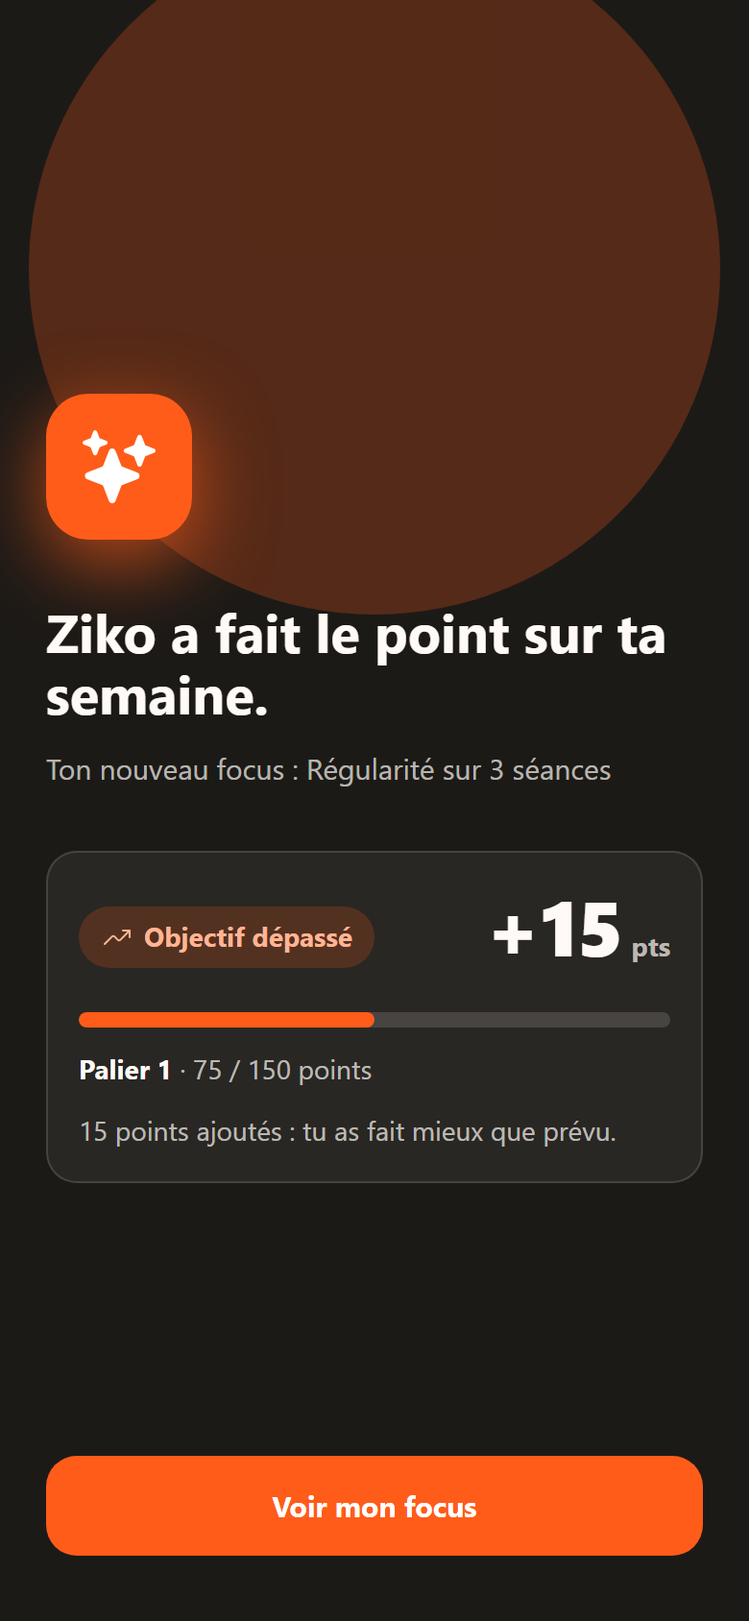
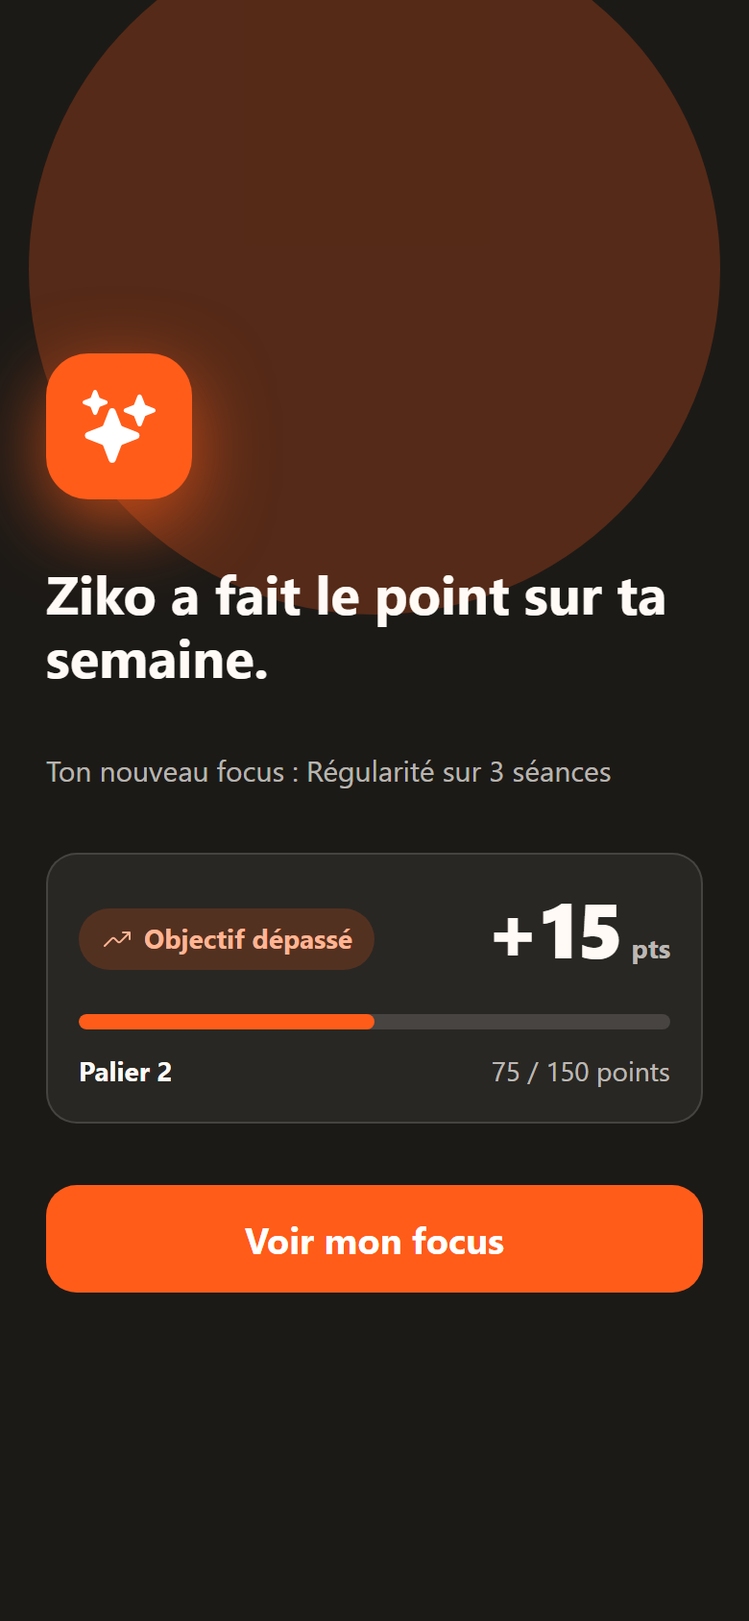
design(45): rebuild overlay states on the real Phase 44 structure, coherent numbers, 19px CTA
Claude-Session: https://claude.ai/code/session_01KbknvqKzQ5JteSPxw9Q9RB

diff --git a/.planning/workstreams/milestone-mobile/phases/45-non-punitive-tiered-rewards/design/tokens.css b/.planning/workstreams/milestone-mobile/phases/45-non-punitive-tiered-rewards/design/tokens.css
@@ -18,15 +18,17 @@ button{font-family:inherit;border:0;background:none;color:inherit}
 .ov{background:var(--dk-bg);color:var(--dk-text)}
 .ov .glow{position:absolute;top:-40px;left:50%;margin-left:-180px;width:360px;height:360px;border-radius:180px;background:var(--dk-glow)}
 .ov .safe{position:absolute;inset:0;padding:47px 24px 34px;display:flex;flex-direction:column}
-.ov .steps{display:flex;gap:8px;justify-content:center;height:8px;margin-top:8px}
+.ov .col{flex:1;display:flex;flex-direction:column;justify-content:center;gap:32px}
+.ov .steps{position:absolute;top:55px;left:0;right:0;display:flex;gap:8px;justify-content:center;height:8px}
 .ov .steps i{width:8px;height:8px;border-radius:4px;background:var(--dk-line)}
 .ov .steps i.on{width:24px;background:var(--primary)}
-.ov .stack{flex:1;display:flex;flex-direction:column;justify-content:center;gap:32px}
 .badge{width:76px;height:76px;border-radius:22px;background:var(--primary);display:flex;align-items:center;justify-content:center;font-size:38px;color:#fff;box-shadow:0 12px 40px rgba(255,92,26,.70)}
-.h-display{font-size:28px;line-height:32px;font-weight:700;color:var(--dk-text)}
+.h-display{font-size:28px;line-height:33px;font-weight:700;color:var(--dk-text)}
 .body{font-size:15px;line-height:22px;font-weight:400;color:var(--dk-sub)}
-.cta{width:100%;min-height:52px;padding:16px 0;border-radius:16px;background:var(--primary);color:#fff;font-size:15px;line-height:20px;font-weight:700;text-align:center}
+.cta{width:100%;min-height:56px;padding:16px 0;border-radius:16px;background:var(--primary);color:#fff;font-size:19px;line-height:24px;font-weight:700;text-align:center}
 .pts{border-radius:16px;background:var(--dk-card);border:1px solid var(--dk-line);padding:16px;display:flex;flex-direction:column;gap:12px}
+.pts .meta{display:flex;justify-content:space-between;align-items:baseline}
+.pts .meta strong{color:var(--dk-text);font-weight:700}
 .chip{display:inline-flex;align-items:center;gap:6px;height:32px;padding:0 12px;border-radius:16px;font-size:14px;line-height:18px;font-weight:700}
 .chip .ic{font-size:16px}
 .chip.ok{background:var(--ok-bg);color:var(--ok-ink)}.chip.up{background:var(--up-bg);color:var(--up-ink)}.chip.calm{background:var(--neutral-bg);color:var(--dk-text)}
@@ -44,39 +46,40 @@ button{font-family:inherit;border:0;background:none;color:inherit}
 .tiers .l{flex:1;height:2px;background:var(--dk-line);margin:0 4px}.tiers .l.done{background:var(--primary)}
 .eyebrow{font-size:14px;line-height:18px;font-weight:700;color:var(--up-ink)}
 .rw{border-radius:16px;background:var(--dk-card);border:1px solid var(--dk-line);padding:24px 16px;display:flex;flex-direction:column;align-items:center;gap:12px;text-align:center}
-.rw .tile{width:76px;height:76px;border-radius:22px;background:var(--up-bg);border:1px solid rgba(255,92,26,.35);display:flex;align-items:center;justify-content:center;font-size:38px;color:var(--up-ink)}
 .rw .name{font-size:28px;line-height:32px;font-weight:700}
 .rw .kind{font-size:14px;line-height:18px;font-weight:700;color:var(--dk-sub)}
 .home .hd{height:96px;padding:56px 20px 0;font-size:28px;line-height:32px;font-weight:700}
-.home .card{margin:12px 16px 0;height:112px;border-radius:16px;background:var(--surface);border:1px solid var(--border);box-shadow:var(--shadow-card)}
-.tabbar{position:absolute;left:0;right:0;bottom:0;height:84px;background:var(--surface);border-top:1px solid var(--border);display:flex;justify-content:space-around;padding-top:10px}
+.home .card{position:relative;margin:12px 16px 0;height:112px;border-radius:16px;background:var(--surface);border:1px solid var(--border);box-shadow:var(--shadow-card)}
+.home .card::before{content:"";position:absolute;left:16px;top:20px;width:38%;height:12px;border-radius:6px;background:var(--bg)}
+.home .card::after{content:"";position:absolute;left:16px;top:44px;width:64%;height:10px;border-radius:5px;background:var(--bg)}
+.tabbar{position:absolute;left:0;right:0;bottom:0;height:104px;background:var(--surface);display:flex;justify-content:space-around;padding-top:10px}
 .tabbar span{width:44px;height:44px;border-radius:22px;background:var(--bg);display:flex;align-items:center;justify-content:center;font-size:22px;color:var(--muted)}
 .scrim{position:absolute;inset:0;background:rgba(0,0,0,.45)}
 .sheet{position:absolute;left:0;right:0;bottom:0;height:633px;background:var(--surface);border-radius:24px 24px 0 0;padding:20px 20px 36px;display:flex;flex-direction:column}
 .sheet .handle{width:36px;height:4px;border-radius:2px;background:var(--border);margin:0 auto 12px}
 .sheet h1{font-size:18px;line-height:24px;font-weight:800}
 .sheet .scroll{overflow-y:auto;overflow-x:hidden;flex:1;scrollbar-width:none}
-.grid{display:flex;flex-wrap:wrap;gap:16px 0;padding-top:16px}
-.cell{width:20%;display:flex;flex-direction:column;align-items:center;gap:6px;min-height:44px;cursor:pointer}
+.grid{display:flex;flex-wrap:wrap;gap:16px;padding-top:16px}
+.cell{flex:none;width:20%;display:flex;flex-direction:column;align-items:center;gap:6px;min-height:44px;cursor:pointer}
 .tile{position:relative;width:56px;height:56px;border-radius:16px;border:1px solid var(--border);display:flex;align-items:center;justify-content:center;font-size:24px}
 .cell .nm{font-size:10px;line-height:13px;font-weight:600;color:var(--muted);text-align:center;max-height:26px;overflow:hidden}
 .cell.locked .tile{background:var(--locked-bg);color:var(--locked-icon)}
 .lockdot{position:absolute;right:-5px;top:-5px;width:22px;height:22px;border-radius:11px;background:var(--surface);border:1px solid var(--border);display:flex;align-items:center;justify-content:center;font-size:12px;color:var(--muted)}
-.lvl{display:inline-flex;align-items:center;height:20px;padding:0 8px;border-radius:10px;font-size:11px;line-height:14px;font-weight:700;background:var(--locked-bg);color:var(--muted)}
+.lvl{display:inline-flex;align-items:center;height:24px;padding:0 8px;border-radius:12px;font-size:14px;line-height:18px;font-weight:700;background:var(--locked-bg);color:var(--muted)}
 .lvl.next{background:var(--primary-light);color:var(--primary-ink);border:1px solid var(--primary-border)}
 .sec{margin-top:24px;padding-top:16px;border-top:1px solid var(--border)}
 .sec .t{display:flex;align-items:center;gap:8px;font-size:14px;line-height:20px;font-weight:700}
 .sec .t .ic{font-size:16px;color:var(--muted)}.sec .t .cur{margin-left:auto;color:var(--primary-ink)}
 .sec p{font-size:14px;line-height:20px;color:var(--muted);margin-top:4px}
-.done-row{margin-top:24px;padding:16px;border-radius:16px;background:var(--bg);border:1px solid var(--border);display:flex;gap:12px;align-items:center;font-size:14px;line-height:20px;color:var(--muted)}
-.done-row .ic{font-size:24px;color:#2E9E5B}.done-row strong{display:block;color:var(--text);font-size:15px}
-.toast{position:absolute;left:16px;right:16px;bottom:80px;display:flex;justify-content:center}
-.toast .in{max-width:358px;background:var(--surface);border:1px solid var(--border);border-radius:24px;padding:12px 20px;display:flex;align-items:center;gap:12px;box-shadow:0 4px 12px rgba(0,0,0,.10)}
-.toast .ci{width:32px;height:32px;border-radius:16px;background:var(--primary-light);color:var(--primary);display:flex;align-items:center;justify-content:center;font-size:18px;flex:none}
+.done-row{margin-top:16px;display:flex;gap:8px;align-items:center;font-size:14px;line-height:20px;font-weight:700;color:var(--muted)}
+.done-row .ic{font-size:20px;color:#2E9E5B}
+.toast{position:absolute;left:16px;right:16px;bottom:116px;display:flex;justify-content:center}
+.toast .in{max-width:358px;background:var(--surface);border:1px solid var(--border);border-radius:24px;padding:12px 20px;display:flex;align-items:center;gap:8px;box-shadow:0 4px 12px rgba(0,0,0,.10)}
+.toast .ci{color:var(--primary);display:flex;font-size:18px;flex:none}
 .toast .a{font-size:15px;line-height:20px;font-weight:700}.toast .b{font-size:14px;line-height:20px;color:var(--muted)}
 .al-scrim{position:absolute;inset:0;background:rgba(0,0,0,.45);display:flex;align-items:center;justify-content:center;padding:30px}
 .al{width:100%;max-width:340px;background:var(--surface);border-radius:24px;padding:24px;text-align:center;box-shadow:0 12px 24px rgba(0,0,0,.2)}
-.al .ci{width:56px;height:56px;border-radius:28px;background:var(--primary-light);color:var(--primary);margin:0 auto 12px;display:flex;align-items:center;justify-content:center;font-size:28px}
+.al .ci{width:56px;height:56px;border-radius:28px;background:var(--primary-light);color:var(--primary);margin:0 auto 16px;display:flex;align-items:center;justify-content:center;font-size:28px}
 .al h2{font-size:18px;line-height:24px;font-weight:700}.al p{font-size:14px;line-height:20px;color:var(--muted);margin-top:8px}
 .al .btn{margin-top:20px;width:100%;min-height:48px;border-radius:14px;background:var(--primary);color:#fff;font-size:15px;font-weight:700;padding:14px 0}
 @media (prefers-reduced-motion:no-preference){.anim-up{animation:up .5s cubic-bezier(.2,1.2,.4,1) both}.anim-fade{animation:fade .24s .12s ease-out both}.bar b{animation:grow .4s .3s ease-out both}.toast .in{animation:tin .3s ease-out both}}

diff --git a/.planning/workstreams/milestone-mobile/phases/45-non-punitive-tiered-rewards/design/missed.html b/.planning/workstreams/milestone-mobile/phases/45-non-punitive-tiered-rewards/design/missed.html
@@ -1,5 +1,1 @@
-<!doctype html><html lang="fr"><head><meta charset="utf-8"><meta name="viewport" content="width=390"><title>Ziko 45 missed</title><link rel="stylesheet" href="tokens.css"></head><body><div class="screen ov"><div class="glow"></div><div class="safe"><div class="steps"></div><div class="stack"><div class="badge anim-up"><svg class="ic" aria-hidden="true" fill="currentColor" xmlns="http://www.w3.org/2000/svg" viewBox="0 0 512 512"><path d="M208 512a24.84 24.84 0 01-23.34-16l-39.84-103.6a16.06 16.06 0 00-9.19-9.19L32 343.34a25 25 0 010-46.68l103.6-39.84a16.06 16.06 0 009.19-9.19L184.66 144a25 25 0 0146.68 0l39.84 103.6a16.06 16.06 0 009.19 9.19l103 39.63a25.49 25.49 0 0116.63 24.1 24.82 24.82 0 01-16 22.82l-103.6 39.84a16.06 16.06 0 00-9.19 9.19L231.34 496A24.84 24.84 0 01208 512zm66.85-254.84zM88 176a14.67 14.67 0 01-13.69-9.4l-16.86-43.84a7.28 7.28 0 00-4.21-4.21L9.4 101.69a14.67 14.67 0 010-27.38l43.84-16.86a7.31 7.31 0 004.21-4.21L74.16 9.79A15 15 0 0186.23.11a14.67 14.67 0 0115.46 9.29l16.86 43.84a7.31 7.31 0 004.21 4.21l43.84 16.86a14.67 14.67 0 010 27.38l-43.84 16.86a7.28 7.28 0 00-4.21 4.21l-16.86 43.84A14.67 14.67 0 0188 176zM400 256a16 16 0 01-14.93-10.26l-22.84-59.37a8 8 0 00-4.6-4.6l-59.37-22.84a16 16 0 010-29.86l59.37-22.84a8 8 0 004.6-4.6l22.67-58.95a16.45 16.45 0 0113.17-10.57 16 16 0 0116.86 10.15l22.84 59.37a8 8 0 004.6 4.6l59.37 22.84a16 16 0 010 29.86l-59.37 22.84a8 8 0 00-4.6 4.6l-22.84 59.37A16 16 0 01400 256z"/></svg></div>
-<div style="display:flex;flex-direction:column;gap:12px"><h1 class="h-display">Ziko a fait le point sur ta semaine.</h1><p class="body">Ton nouveau focus : Reprendre en douceur, 2 séances</p></div><div class="pts anim-fade" role="group" aria-label="Points de la semaine : aucun point gagné. Rien n’est perdu. Palier 1, 60 sur 150 points.">
-<div class="row" style="justify-content:space-between"><span class="chip calm"><svg class="ic" aria-hidden="true" fill="currentColor" xmlns="http://www.w3.org/2000/svg" viewBox="0 0 512 512"><path d="M161.35 242a16 16 0 0122.62-.68c73.63 69.36 147.51 111.56 234.45 133.07 11.73-32 12.77-67.22 2.64-101.58-13.44-45.59-44.74-85.31-90.49-114.86-40.84-26.38-81.66-33.25-121.15-39.89-49.82-8.38-96.88-16.3-141.79-63.85-5-5.26-11.81-7.37-18.32-5.66-7.44 2-12.43 7.88-14.82 17.6-5.6 22.75-2 86.51 13.75 153.82 25.29 108.14 65.65 162.86 95.06 189.73 38 34.69 87.62 53.9 136.93 53.9a186 186 0 0027.77-2.04c41.71-6.32 76.43-27.27 96-57.75-89.49-23.28-165.94-67.55-242-139.16a16 16 0 01-.65-22.65zM467.43 384.19c-16.83-2.59-33.13-5.84-49-9.77a157.71 157.71 0 01-12.13 25.68c-.73 1.25-1.5 2.49-2.29 3.71a584.21 584.21 0 0058.56 12 16 16 0 104.87-31.62z"/></svg>Semaine d’ajustement</span><span class="num zero">0<small>pts</small></span></div>
-<div class="bar" role="progressbar" aria-valuemin="0" aria-valuemax="150" aria-valuenow="60"><b style="width:40%"></b></div>
-<p class="lbl"><strong>Palier 1</strong> · 60 / 150 points</p><p class="lbl">Pas de points cette semaine, et rien n’est perdu : ton palier et tes récompenses restent à toi.</p></div></div><button class="cta" data-tap>Voir mon focus</button></div></div></body></html>
+<!doctype html><html lang="fr"><head><meta charset="utf-8"><meta name="viewport" content="width=390"><title>Ziko 45 missed</title><link rel="stylesheet" href="tokens.css"></head><body><div class="screen ov"><div class="glow"></div><div class="safe"><div class="col"><div class="badge anim-up"><svg class="ic" aria-hidden="true" fill="currentColor" xmlns="http://www.w3.org/2000/svg" viewBox="0 0 512 512"><path d="M208 512a24.84 24.84 0 01-23.34-16l-39.84-103.6a16.06 16.06 0 00-9.19-9.19L32 343.34a25 25 0 010-46.68l103.6-39.84a16.06 16.06 0 009.19-9.19L184.66 144a25 25 0 0146.68 0l39.84 103.6a16.06 16.06 0 009.19 9.19l103 39.63a25.49 25.49 0 0116.63 24.1 24.82 24.82 0 01-16 22.82l-103.6 39.84a16.06 16.06 0 00-9.19 9.19L231.34 496A24.84 24.84 0 01208 512zm66.85-254.84zM88 176a14.67 14.67 0 01-13.69-9.4l-16.86-43.84a7.28 7.28 0 00-4.21-4.21L9.4 101.69a14.67 14.67 0 010-27.38l43.84-16.86a7.31 7.31 0 004.21-4.21L74.16 9.79A15 15 0 0186.23.11a14.67 14.67 0 0115.46 9.29l16.86 43.84a7.31 7.31 0 004.21 4.21l43.84 16.86a14.67 14.67 0 010 27.38l-43.84 16.86a7.28 7.28 0 00-4.21 4.21l-16.86 43.84A14.67 14.67 0 0188 176zM400 256a16 16 0 01-14.93-10.26l-22.84-59.37a8 8 0 00-4.6-4.6l-59.37-22.84a16 16 0 010-29.86l59.37-22.84a8 8 0 004.6-4.6l22.67-58.95a16.45 16.45 0 0113.17-10.57 16 16 0 0116.86 10.15l22.84 59.37a8 8 0 004.6 4.6l59.37 22.84a16 16 0 010 29.86l-59.37 22.84a8 8 0 00-4.6 4.6l-22.84 59.37A16 16 0 01400 256z"/></svg></div><h1 class="h-display">Ziko a fait le point sur ta semaine.</h1><p class="body">Ton nouveau focus : Reprendre en douceur, 2 séances</p><div class="pts anim-fade" role="group" aria-label="Points de la semaine : aucun. Palier 2, 60 sur 150 points."><div class="row" style="justify-content:space-between"><span class="chip calm"><svg class="ic" aria-hidden="true" fill="currentColor" xmlns="http://www.w3.org/2000/svg" viewBox="0 0 512 512"><path d="M161.35 242a16 16 0 0122.62-.68c73.63 69.36 147.51 111.56 234.45 133.07 11.73-32 12.77-67.22 2.64-101.58-13.44-45.59-44.74-85.31-90.49-114.86-40.84-26.38-81.66-33.25-121.15-39.89-49.82-8.38-96.88-16.3-141.79-63.85-5-5.26-11.81-7.37-18.32-5.66-7.44 2-12.43 7.88-14.82 17.6-5.6 22.75-2 86.51 13.75 153.82 25.29 108.14 65.65 162.86 95.06 189.73 38 34.69 87.62 53.9 136.93 53.9a186 186 0 0027.77-2.04c41.71-6.32 76.43-27.27 96-57.75-89.49-23.28-165.94-67.55-242-139.16a16 16 0 01-.65-22.65zM467.43 384.19c-16.83-2.59-33.13-5.84-49-9.77a157.71 157.71 0 01-12.13 25.68c-.73 1.25-1.5 2.49-2.29 3.71a584.21 584.21 0 0058.56 12 16 16 0 104.87-31.62z"/></svg>Semaine d’ajustement</span><span class="num zero">0<small>pts</small></span></div><div class="bar" role="progressbar" aria-valuemin="0" aria-valuemax="150" aria-valuenow="60"><b style="width:40%"></b></div><p class="lbl meta"><strong>Palier 2</strong><span>60 / 150 points</span></p><p class="lbl">Pas de points cette semaine. Ton palier et tes récompenses restent à toi.</p></div><button class="cta" data-tap>Voir mon focus</button></div></div></div></body></html>

diff --git a/.planning/workstreams/milestone-mobile/phases/45-non-punitive-tiered-rewards/design/exceeded.html b/.planning/workstreams/milestone-mobile/phases/45-non-punitive-tiered-rewards/design/exceeded.html
@@ -1,5 +1,1 @@
-<!doctype html><html lang="fr"><head><meta charset="utf-8"><meta name="viewport" content="width=390"><title>Ziko 45 exceeded</title><link rel="stylesheet" href="tokens.css"></head><body><div class="screen ov"><div class="glow"></div><div class="safe"><div class="steps"></div><div class="stack"><div class="badge anim-up"><svg class="ic" aria-hidden="true" fill="currentColor" xmlns="http://www.w3.org/2000/svg" viewBox="0 0 512 512"><path d="M208 512a24.84 24.84 0 01-23.34-16l-39.84-103.6a16.06 16.06 0 00-9.19-9.19L32 343.34a25 25 0 010-46.68l103.6-39.84a16.06 16.06 0 009.19-9.19L184.66 144a25 25 0 0146.68 0l39.84 103.6a16.06 16.06 0 009.19 9.19l103 39.63a25.49 25.49 0 0116.63 24.1 24.82 24.82 0 01-16 22.82l-103.6 39.84a16.06 16.06 0 00-9.19 9.19L231.34 496A24.84 24.84 0 01208 512zm66.85-254.84zM88 176a14.67 14.67 0 01-13.69-9.4l-16.86-43.84a7.28 7.28 0 00-4.21-4.21L9.4 101.69a14.67 14.67 0 010-27.38l43.84-16.86a7.31 7.31 0 004.21-4.21L74.16 9.79A15 15 0 0186.23.11a14.67 14.67 0 0115.46 9.29l16.86 43.84a7.31 7.31 0 004.21 4.21l43.84 16.86a14.67 14.67 0 010 27.38l-43.84 16.86a7.28 7.28 0 00-4.21 4.21l-16.86 43.84A14.67 14.67 0 0188 176zM400 256a16 16 0 01-14.93-10.26l-22.84-59.37a8 8 0 00-4.6-4.6l-59.37-22.84a16 16 0 010-29.86l59.37-22.84a8 8 0 004.6-4.6l22.67-58.95a16.45 16.45 0 0113.17-10.57 16 16 0 0116.86 10.15l22.84 59.37a8 8 0 004.6 4.6l59.37 22.84a16 16 0 010 29.86l-59.37 22.84a8 8 0 00-4.6 4.6l-22.84 59.37A16 16 0 01400 256z"/></svg></div>
-<div style="display:flex;flex-direction:column;gap:12px"><h1 class="h-display">Ziko a fait le point sur ta semaine.</h1><p class="body">Ton nouveau focus : Régularité sur 3 séances</p></div><div class="pts anim-fade" role="group" aria-label="Points de la semaine : 15 gagnés, objectif dépassé. Palier 1, 75 sur 150 points.">
-<div class="row" style="justify-content:space-between"><span class="chip up"><svg class="ic" aria-hidden="true" fill="currentColor" xmlns="http://www.w3.org/2000/svg" viewBox="0 0 512 512"><path fill="none" stroke="currentColor" stroke-linecap="round" stroke-linejoin="round" stroke-width="32" d="M352 144h112v112"/><path d="M48 368l121.37-121.37a32 32 0 0145.26 0l50.74 50.74a32 32 0 0045.26 0L448 160" fill="none" stroke="currentColor" stroke-linecap="round" stroke-linejoin="round" stroke-width="32"/></svg>Objectif dépassé</span><span class="num ">+15<small>pts</small></span></div>
-<div class="bar" role="progressbar" aria-valuemin="0" aria-valuemax="150" aria-valuenow="75"><b style="width:50%"></b></div>
-<p class="lbl"><strong>Palier 1</strong> · 75 / 150 points</p><p class="lbl">15 points ajoutés : tu as fait mieux que prévu.</p></div></div><button class="cta" data-tap>Voir mon focus</button></div></div></body></html>
+<!doctype html><html lang="fr"><head><meta charset="utf-8"><meta name="viewport" content="width=390"><title>Ziko 45 exceeded</title><link rel="stylesheet" href="tokens.css"></head><body><div class="screen ov"><div class="glow"></div><div class="safe"><div class="col"><div class="badge anim-up"><svg class="ic" aria-hidden="true" fill="currentColor" xmlns="http://www.w3.org/2000/svg" viewBox="0 0 512 512"><path d="M208 512a24.84 24.84 0 01-23.34-16l-39.84-103.6a16.06 16.06 0 00-9.19-9.19L32 343.34a25 25 0 010-46.68l103.6-39.84a16.06 16.06 0 009.19-9.19L184.66 144a25 25 0 0146.68 0l39.84 103.6a16.06 16.06 0 009.19 9.19l103 39.63a25.49 25.49 0 0116.63 24.1 24.82 24.82 0 01-16 22.82l-103.6 39.84a16.06 16.06 0 00-9.19 9.19L231.34 496A24.84 24.84 0 01208 512zm66.85-254.84zM88 176a14.67 14.67 0 01-13.69-9.4l-16.86-43.84a7.28 7.28 0 00-4.21-4.21L9.4 101.69a14.67 14.67 0 010-27.38l43.84-16.86a7.31 7.31 0 004.21-4.21L74.16 9.79A15 15 0 0186.23.11a14.67 14.67 0 0115.46 9.29l16.86 43.84a7.31 7.31 0 004.21 4.21l43.84 16.86a14.67 14.67 0 010 27.38l-43.84 16.86a7.28 7.28 0 00-4.21 4.21l-16.86 43.84A14.67 14.67 0 0188 176zM400 256a16 16 0 01-14.93-10.26l-22.84-59.37a8 8 0 00-4.6-4.6l-59.37-22.84a16 16 0 010-29.86l59.37-22.84a8 8 0 004.6-4.6l22.67-58.95a16.45 16.45 0 0113.17-10.57 16 16 0 0116.86 10.15l22.84 59.37a8 8 0 004.6 4.6l59.37 22.84a16 16 0 010 29.86l-59.37 22.84a8 8 0 00-4.6 4.6l-22.84 59.37A16 16 0 01400 256z"/></svg></div><h1 class="h-display">Ziko a fait le point sur ta semaine.</h1><p class="body">Ton nouveau focus : Régularité sur 3 séances</p><div class="pts anim-fade" role="group" aria-label="Points de la semaine : 15 ajoutés, objectif dépassé. Palier 2, 75 sur 150 points."><div class="row" style="justify-content:space-between"><span class="chip up"><svg class="ic" aria-hidden="true" fill="currentColor" xmlns="http://www.w3.org/2000/svg" viewBox="0 0 512 512"><path fill="none" stroke="currentColor" stroke-linecap="round" stroke-linejoin="round" stroke-width="32" d="M352 144h112v112"/><path d="M48 368l121.37-121.37a32 32 0 0145.26 0l50.74 50.74a32 32 0 0045.26 0L448 160" fill="none" stroke="currentColor" stroke-linecap="round" stroke-linejoin="round" stroke-width="32"/></svg>Objectif dépassé</span><span class="num ">+15<small>pts</small></span></div><div class="bar" role="progressbar" aria-valuemin="0" aria-valuemax="150" aria-valuenow="75"><b style="width:50%"></b></div><p class="lbl meta"><strong>Palier 2</strong><span>75 / 150 points</span></p></div><button class="cta" data-tap>Voir mon focus</button></div></div></div></body></html>

diff --git a/.planning/workstreams/milestone-mobile/phases/45-non-punitive-tiered-rewards/design/met.html b/.planning/workstreams/milestone-mobile/phases/45-non-punitive-tiered-rewards/design/met.html
@@ -1,5 +1,1 @@
-<!doctype html><html lang="fr"><head><meta charset="utf-8"><meta name="viewport" content="width=390"><title>Ziko 45 met</title><link rel="stylesheet" href="tokens.css"></head><body><div class="screen ov"><div class="glow"></div><div class="safe"><div class="steps"></div><div class="stack"><div class="badge anim-up"><svg class="ic" aria-hidden="true" fill="currentColor" xmlns="http://www.w3.org/2000/svg" viewBox="0 0 512 512"><path d="M208 512a24.84 24.84 0 01-23.34-16l-39.84-103.6a16.06 16.06 0 00-9.19-9.19L32 343.34a25 25 0 010-46.68l103.6-39.84a16.06 16.06 0 009.19-9.19L184.66 144a25 25 0 0146.68 0l39.84 103.6a16.06 16.06 0 009.19 9.19l103 39.63a25.49 25.49 0 0116.63 24.1 24.82 24.82 0 01-16 22.82l-103.6 39.84a16.06 16.06 0 00-9.19 9.19L231.34 496A24.84 24.84 0 01208 512zm66.85-254.84zM88 176a14.67 14.67 0 01-13.69-9.4l-16.86-43.84a7.28 7.28 0 00-4.21-4.21L9.4 101.69a14.67 14.67 0 010-27.38l43.84-16.86a7.31 7.31 0 004.21-4.21L74.16 9.79A15 15 0 0186.23.11a14.67 14.67 0 0115.46 9.29l16.86 43.84a7.31 7.31 0 004.21 4.21l43.84 16.86a14.67 14.67 0 010 27.38l-43.84 16.86a7.28 7.28 0 00-4.21 4.21l-16.86 43.84A14.67 14.67 0 0188 176zM400 256a16 16 0 01-14.93-10.26l-22.84-59.37a8 8 0 00-4.6-4.6l-59.37-22.84a16 16 0 010-29.86l59.37-22.84a8 8 0 004.6-4.6l22.67-58.95a16.45 16.45 0 0113.17-10.57 16 16 0 0116.86 10.15l22.84 59.37a8 8 0 004.6 4.6l59.37 22.84a16 16 0 010 29.86l-59.37 22.84a8 8 0 00-4.6 4.6l-22.84 59.37A16 16 0 01400 256z"/></svg></div>
-<div style="display:flex;flex-direction:column;gap:12px"><h1 class="h-display">Ziko a fait le point sur ta semaine.</h1><p class="body">Ton nouveau focus : Régularité sur 3 séances</p></div><div class="pts anim-fade" role="group" aria-label="Points de la semaine : 10 gagnés, objectif atteint. Palier 1, 60 sur 150 points.">
-<div class="row" style="justify-content:space-between"><span class="chip ok"><svg class="ic" aria-hidden="true" fill="currentColor" xmlns="http://www.w3.org/2000/svg" viewBox="0 0 512 512"><path d="M256 48C141.31 48 48 141.31 48 256s93.31 208 208 208 208-93.31 208-208S370.69 48 256 48zm108.25 138.29l-134.4 160a16 16 0 01-12 5.71h-.27a16 16 0 01-11.89-5.3l-57.6-64a16 16 0 1123.78-21.4l45.29 50.32 122.59-145.91a16 16 0 0124.5 20.58z"/></svg>Objectif atteint</span><span class="num ">+10<small>pts</small></span></div>
-<div class="bar" role="progressbar" aria-valuemin="0" aria-valuemax="150" aria-valuenow="60"><b style="width:40%"></b></div>
-<p class="lbl"><strong>Palier 1</strong> · 60 / 150 points</p><p class="lbl">10 points ajoutés à ton total.</p></div></div><button class="cta" data-tap>Voir mon focus</button></div></div></body></html>
+<!doctype html><html lang="fr"><head><meta charset="utf-8"><meta name="viewport" content="width=390"><title>Ziko 45 met</title><link rel="stylesheet" href="tokens.css"></head><body><div class="screen ov"><div class="glow"></div><div class="safe"><div class="col"><div class="badge anim-up"><svg class="ic" aria-hidden="true" fill="currentColor" xmlns="http://www.w3.org/2000/svg" viewBox="0 0 512 512"><path d="M208 512a24.84 24.84 0 01-23.34-16l-39.84-103.6a16.06 16.06 0 00-9.19-9.19L32 343.34a25 25 0 010-46.68l103.6-39.84a16.06 16.06 0 009.19-9.19L184.66 144a25 25 0 0146.68 0l39.84 103.6a16.06 16.06 0 009.19 9.19l103 39.63a25.49 25.49 0 0116.63 24.1 24.82 24.82 0 01-16 22.82l-103.6 39.84a16.06 16.06 0 00-9.19 9.19L231.34 496A24.84 24.84 0 01208 512zm66.85-254.84zM88 176a14.67 14.67 0 01-13.69-9.4l-16.86-43.84a7.28 7.28 0 00-4.21-4.21L9.4 101.69a14.67 14.67 0 010-27.38l43.84-16.86a7.31 7.31 0 004.21-4.21L74.16 9.79A15 15 0 0186.23.11a14.67 14.67 0 0115.46 9.29l16.86 43.84a7.31 7.31 0 004.21 4.21l43.84 16.86a14.67 14.67 0 010 27.38l-43.84 16.86a7.28 7.28 0 00-4.21 4.21l-16.86 43.84A14.67 14.67 0 0188 176zM400 256a16 16 0 01-14.93-10.26l-22.84-59.37a8 8 0 00-4.6-4.6l-59.37-22.84a16 16 0 010-29.86l59.37-22.84a8 8 0 004.6-4.6l22.67-58.95a16.45 16.45 0 0113.17-10.57 16 16 0 0116.86 10.15l22.84 59.37a8 8 0 004.6 4.6l59.37 22.84a16 16 0 010 29.86l-59.37 22.84a8 8 0 00-4.6 4.6l-22.84 59.37A16 16 0 01400 256z"/></svg></div><h1 class="h-display">Ziko a fait le point sur ta semaine.</h1><p class="body">Ton nouveau focus : Régularité sur 3 séances</p><div class="pts anim-fade" role="group" aria-label="Points de la semaine : 10 ajoutés, objectif atteint. Palier 2, 70 sur 150 points."><div class="row" style="justify-content:space-between"><span class="chip ok"><svg class="ic" aria-hidden="true" fill="currentColor" xmlns="http://www.w3.org/2000/svg" viewBox="0 0 512 512"><path d="M256 48C141.31 48 48 141.31 48 256s93.31 208 208 208 208-93.31 208-208S370.69 48 256 48zm108.25 138.29l-134.4 160a16 16 0 01-12 5.71h-.27a16 16 0 01-11.89-5.3l-57.6-64a16 16 0 1123.78-21.4l45.29 50.32 122.59-145.91a16 16 0 0124.5 20.58z"/></svg>Objectif atteint</span><span class="num ">+10<small>pts</small></span></div><div class="bar" role="progressbar" aria-valuemin="0" aria-valuemax="150" aria-valuenow="70"><b style="width:46.666666666666664%"></b></div><p class="lbl meta"><strong>Palier 2</strong><span>70 / 150 points</span></p></div><button class="cta" data-tap>Voir mon focus</button></div></div></div></body></html>

diff --git a/.planning/workstreams/milestone-mobile/phases/45-non-punitive-tiered-rewards/design/reward.html b/.planning/workstreams/milestone-mobile/phases/45-non-punitive-tiered-rewards/design/reward.html
@@ -1,1 +1,1 @@
-<!doctype html><html lang="fr"><head><meta charset="utf-8"><meta name="viewport" content="width=390"><title>Ziko 45 reward</title><link rel="stylesheet" href="tokens.css"></head><body><div class="screen ov"><div class="glow"></div><div class="safe"><div class="steps" role="img" aria-label="Étape 3 sur 3"><i class=""></i><i class=""></i><i class="on"></i></div><div class="stack"><div style="display:flex;flex-direction:column;gap:12px"><p class="eyebrow">Choisi pour toi par Ziko</p><h1 class="h-display">Ta récompense, palier 3</h1></div><div class="rw anim-up" role="group" aria-label="Récompense : titre Régulier, choisi pour toi par Ziko"><div class="tile"><svg class="ic" aria-hidden="true" fill="currentColor" xmlns="http://www.w3.org/2000/svg" viewBox="0 0 512 512"><path d="M269 335.61q-6.33.47-12.78.47c-5.23 0-10.4-.24-15.51-.69a176.11 176.11 0 01-127.67-72.94 4 4 0 00-6.77.35l-72 129.4c-2.74 5-3.17 11-.28 15.88A16.78 16.78 0 0048.22 416h78a15.28 15.28 0 0113.62 7.33L178.5 488a16.26 16.26 0 0013.75 8c5.94-.33 12.09-4.19 14.56-9.6l66.11-145.15a4 4 0 00-3.92-5.64zM477.64 391.88l-71.53-129.17a4 4 0 00-6.74-.36 176.5 176.5 0 01-78.31 61.42 16.09 16.09 0 00-8.72 8.25l-36.86 81.1a7.92 7.92 0 000 6.6l30.27 66.59c2.45 5.41 8.59 9.36 14.52 9.69a16.3 16.3 0 0013.7-8.12l38.53-64.58c2.89-4.85 8.13-7.33 13.78-7.3h78.77c6.67 0 11.72-3.48 14-10a16.92 16.92 0 00-1.41-14.12z"/><ellipse cx="256.26" cy="160" rx="48.01" ry="48"/><path d="M256.26 16c-79.42 0-144 64.59-144 144s64.61 144 144 144 144-64.6 144-144-64.59-144-144-144zm0 224a80 80 0 1180-80 80.1 80.1 0 01-80 80z"/></svg></div><p class="name">Régulier</p><p class="kind">Titre de profil · Palier 3</p><p class="body">Ziko l’a choisi pour toi selon ton parcours. Il t’appartient pour toujours.</p></div></div><button class="cta" data-tap>Voir mon focus</button></div></div></body></html>
+<!doctype html><html lang="fr"><head><meta charset="utf-8"><meta name="viewport" content="width=390"><title>Ziko 45 reward</title><link rel="stylesheet" href="tokens.css"></head><body><div class="screen ov"><div class="glow"></div><div class="safe"><div class="steps" role="img" aria-label="Étape 3 sur 3"><i class=""></i><i class=""></i><i class="on"></i></div><div class="col"><div class="badge anim-up"><svg class="ic" aria-hidden="true" fill="currentColor" xmlns="http://www.w3.org/2000/svg" viewBox="0 0 512 512"><path d="M269 335.61q-6.33.47-12.78.47c-5.23 0-10.4-.24-15.51-.69a176.11 176.11 0 01-127.67-72.94 4 4 0 00-6.77.35l-72 129.4c-2.74 5-3.17 11-.28 15.88A16.78 16.78 0 0048.22 416h78a15.28 15.28 0 0113.62 7.33L178.5 488a16.26 16.26 0 0013.75 8c5.94-.33 12.09-4.19 14.56-9.6l66.11-145.15a4 4 0 00-3.92-5.64zM477.64 391.88l-71.53-129.17a4 4 0 00-6.74-.36 176.5 176.5 0 01-78.31 61.42 16.09 16.09 0 00-8.72 8.25l-36.86 81.1a7.92 7.92 0 000 6.6l30.27 66.59c2.45 5.41 8.59 9.36 14.52 9.69a16.3 16.3 0 0013.7-8.12l38.53-64.58c2.89-4.85 8.13-7.33 13.78-7.3h78.77c6.67 0 11.72-3.48 14-10a16.92 16.92 0 00-1.41-14.12z"/><ellipse cx="256.26" cy="160" rx="48.01" ry="48"/><path d="M256.26 16c-79.42 0-144 64.59-144 144s64.61 144 144 144 144-64.6 144-144-64.59-144-144-144zm0 224a80 80 0 1180-80 80.1 80.1 0 01-80 80z"/></svg></div><h1 class="h-display">Ta récompense, palier 3</h1><p class="body">Il t’appartient pour toujours.</p><div class="rw anim-up" role="group" aria-label="Récompense : titre Régulier, choisi pour toi par Ziko"><span class="chip up">Choisi pour toi par Ziko</span><p class="name">Régulier</p><p class="kind">Titre de profil · Palier 3</p></div><button class="cta" data-tap>Voir mon focus</button></div></div></div></body></html>

diff --git a/.planning/workstreams/milestone-mobile/phases/45-non-punitive-tiered-rewards/design/tier-up.html b/.planning/workstreams/milestone-mobile/phases/45-non-punitive-tiered-rewards/design/tier-up.html
@@ -1,1 +1,1 @@
-<!doctype html><html lang="fr"><head><meta charset="utf-8"><meta name="viewport" content="width=390"><title>Ziko 45 tier-up</title><link rel="stylesheet" href="tokens.css"></head><body><div class="screen ov"><div class="glow"></div><div class="safe"><div class="steps" role="img" aria-label="Étape 2 sur 3"><i class=""></i><i class="on"></i><i class=""></i></div><div class="stack"><div class="badge anim-up"><svg class="ic" aria-hidden="true" fill="currentColor" xmlns="http://www.w3.org/2000/svg" viewBox="0 0 512 512"><circle cx="256" cy="352" r="32"/><path d="M99.78 32a48 48 0 00-42.94 26.53l-31 62A48.26 48.26 0 0024.28 160h278.2a4 4 0 003.39-1.87l75.5-120A4 4 0 00378 32z"/><path d="M486.17 120.56l-31-62a47.7 47.7 0 00-32.79-25.46L342.5 160 298 231.08a128 128 0 00-84 0l-23.32-37.2a4 4 0 00-3.39-1.88H51.14a4 4 0 00-3.36 6.16l82.7 128.73a128 128 0 10251 0L483.62 168a48.22 48.22 0 002.55-47.44zm-226 295.31a64 64 0 1159.69-59.69 64.08 64.08 0 01-59.68 59.69z"/></svg></div><div style="display:flex;flex-direction:column;gap:12px"><h1 class="h-display">Palier 3 atteint</h1><p class="body">Tu as cumulé 150 points. Ziko a choisi une récompense pour toi.</p></div><div class="tiers anim-fade" role="img" aria-label="Palier 3 sur 4"><span class="n done">1</span><span class="l done"></span><span class="n done">2</span><span class="l done"></span><span class="n done cur">3</span><span class="l"></span><span class="n">4</span></div></div><button class="cta" data-tap>Découvrir ma récompense</button></div></div></body></html>
+<!doctype html><html lang="fr"><head><meta charset="utf-8"><meta name="viewport" content="width=390"><title>Ziko 45 tier-up</title><link rel="stylesheet" href="tokens.css"></head><body><div class="screen ov"><div class="glow"></div><div class="safe"><div class="steps" role="img" aria-label="Étape 2 sur 3"><i class=""></i><i class="on"></i><i class=""></i></div><div class="col"><div class="badge anim-up"><svg class="ic" aria-hidden="true" fill="currentColor" xmlns="http://www.w3.org/2000/svg" viewBox="0 0 512 512"><circle cx="256" cy="352" r="32"/><path d="M99.78 32a48 48 0 00-42.94 26.53l-31 62A48.26 48.26 0 0024.28 160h278.2a4 4 0 003.39-1.87l75.5-120A4 4 0 00378 32z"/><path d="M486.17 120.56l-31-62a47.7 47.7 0 00-32.79-25.46L342.5 160 298 231.08a128 128 0 00-84 0l-23.32-37.2a4 4 0 00-3.39-1.88H51.14a4 4 0 00-3.36 6.16l82.7 128.73a128 128 0 10251 0L483.62 168a48.22 48.22 0 002.55-47.44zm-226 295.31a64 64 0 1159.69-59.69 64.08 64.08 0 01-59.68 59.69z"/></svg></div><h1 class="h-display">Palier 3 atteint</h1><p class="body">Tu as cumulé 150 points. Ziko a choisi une récompense pour toi.</p><div class="tiers anim-fade" role="img" aria-label="Palier 3 sur 4"><span class="n done">1</span><span class="l done"></span><span class="n done">2</span><span class="l done"></span><span class="n done cur">3</span><span class="l"></span><span class="n">4</span></div><button class="cta" data-tap>Découvrir ma récompense</button></div></div></div></body></html>

diff --git a/.planning/workstreams/milestone-mobile/phases/45-non-punitive-tiered-rewards/design/measure.js b/.planning/workstreams/milestone-mobile/phases/45-non-punitive-tiered-rewards/design/measure.js
@@ -20,7 +20,7 @@ const exe=process.env.CHROMIUM_PATH||'C:/Users/Anatholy/AppData/Local/ms-playwri
    const sr=screen.getBoundingClientRect();
    const walker=document.createTreeWalker(screen,NodeFilter.SHOW_TEXT);let n;
    while(n=walker.nextNode()){if(!n.textContent.trim())continue;const el=n.parentElement;const cs=getComputedStyle(el);res.texts++;
-    const fs=parseFloat(cs.fontSize);const allow=el.closest('.cell')&&!el.closest('.lvl')&&el.classList.contains('nm')?10:el.classList.contains('lvl')?11:14;
+    const fs=parseFloat(cs.fontSize);const allow=el.closest('.cell')&&el.classList.contains('nm')?10:14;
     if(fs<allow)res.small.push([n.textContent.trim().slice(0,30),fs]);
     if(fs<14&&allow>=14)res.small.push(['!',n.textContent.trim(),fs]);
     const fg=parse(cs.color);const bg=bgOf(el);const fgc=over(fg,bg);const ratio=cr(fgc,bg);const big=fs>=24||(fs>=18.66&&parseInt(cs.fontWeight)>=700);
@@ -33,11 +33,13 @@ const exe=process.env.CHROMIUM_PATH||'C:/Users/Anatholy/AppData/Local/ms-playwri
    const nt=[];const chk=(sel,label)=>{const e=document.querySelector(sel);if(!e)return;const bg=bgOf(e.parentElement);const fg=over(parse(getComputedStyle(e).color==='rgba(0, 0, 0, 0)'?getComputedStyle(e).backgroundColor:getComputedStyle(e).color),bg);nt.push([label,+cr(fg,bg).toFixed(2)])};
    chk('.cell.locked .tile','locked icon vs tile (>=3)');chk('.lockdot','lock glyph vs chip (>=3)');
    const b=document.querySelector('.bar b');if(b){const bg=bgOf(b.parentElement);nt.push(['progress fill vs track',+cr(over(parse(getComputedStyle(b).backgroundColor),bg),bg).toFixed(2)])}
-   res.nonText=nt;return res});
+   res.nonText=nt;res.text=screen.innerText;const cta=document.querySelector('.cta,.btn');res.ctaFont=cta?parseFloat(getComputedStyle(cta).fontSize):null;return res});
+  const bad=/(perdu|échec|raté|pénalité|malus|chance|tirage|hasard|jackpot|coffre|valeur|euros|boutique|gagné au)|[−–—↓\u{1F300}-\u{1FAFF}☀-➿]|(^|\s)-\d|--/iu;
+  r.forbidden=(r.text.match(bad)||[]).slice(0,1);delete r.text;
   if(shot){await pg.locator('.screen').screenshot({path:path.join(dir,f.replace('.html','.png'))})}
   out.push({file:f,...r});await pg.close();
  }
  await b.close();
  fs.writeFileSync(path.join(dir,'measure-results.json'),JSON.stringify(out,null,1));
- for(const o of out)console.log(o.file,'overflowX='+o.overflowX,'texts='+o.texts,'small='+JSON.stringify(o.small),'tap='+JSON.stringify(o.tap)+'/'+o.tapCount,'contrast='+JSON.stringify(o.contrast),'nonText='+JSON.stringify(o.nonText));
+ for(const o of out)console.log(o.file,'overflowX='+o.overflowX,'texts='+o.texts,'small='+JSON.stringify(o.small),'forbidden='+JSON.stringify(o.forbidden)+' ctaFont='+o.ctaFont+' tap='+JSON.stringify(o.tap)+'/'+o.tapCount,'contrast='+JSON.stringify(o.contrast),'nonText='+JSON.stringify(o.nonText));
 })();

diff --git a/.planning/workstreams/milestone-mobile/phases/45-non-punitive-tiered-rewards/design/no-reward.html b/.planning/workstreams/milestone-mobile/phases/45-non-punitive-tiered-rewards/design/no-reward.html
@@ -1,1 +1,1 @@
-<!doctype html><html lang="fr"><head><meta charset="utf-8"><meta name="viewport" content="width=390"><title>Ziko 45 no-reward</title><link rel="stylesheet" href="tokens.css"></head><body><div class="screen ov"><div class="glow"></div><div class="safe"><div class="steps"></div><div class="stack"><div class="badge anim-up"><svg class="ic" aria-hidden="true" fill="currentColor" xmlns="http://www.w3.org/2000/svg" viewBox="0 0 512 512"><circle cx="256" cy="352" r="32"/><path d="M99.78 32a48 48 0 00-42.94 26.53l-31 62A48.26 48.26 0 0024.28 160h278.2a4 4 0 003.39-1.87l75.5-120A4 4 0 00378 32z"/><path d="M486.17 120.56l-31-62a47.7 47.7 0 00-32.79-25.46L342.5 160 298 231.08a128 128 0 00-84 0l-23.32-37.2a4 4 0 00-3.39-1.88H51.14a4 4 0 00-3.36 6.16l82.7 128.73a128 128 0 10251 0L483.62 168a48.22 48.22 0 002.55-47.44zm-226 295.31a64 64 0 1159.69-59.69 64.08 64.08 0 01-59.68 59.69z"/></svg></div><div style="display:flex;flex-direction:column;gap:12px"><h1 class="h-display">Palier 3 atteint</h1><p class="body">Tu as cumulé 150 points. Ton palier est à toi pour toujours.</p></div><div class="tiers anim-fade" role="img" aria-label="Palier 3 sur 4"><span class="n done">1</span><span class="l done"></span><span class="n done">2</span><span class="l done"></span><span class="n done cur">3</span><span class="l"></span><span class="n">4</span></div></div><button class="cta" data-tap>Voir mon focus</button></div></div></body></html>
+<!doctype html><html lang="fr"><head><meta charset="utf-8"><meta name="viewport" content="width=390"><title>Ziko 45 no-reward</title><link rel="stylesheet" href="tokens.css"></head><body><div class="screen ov"><div class="glow"></div><div class="safe"><div class="col"><div class="badge anim-up"><svg class="ic" aria-hidden="true" fill="currentColor" xmlns="http://www.w3.org/2000/svg" viewBox="0 0 512 512"><circle cx="256" cy="352" r="32"/><path d="M99.78 32a48 48 0 00-42.94 26.53l-31 62A48.26 48.26 0 0024.28 160h278.2a4 4 0 003.39-1.87l75.5-120A4 4 0 00378 32z"/><path d="M486.17 120.56l-31-62a47.7 47.7 0 00-32.79-25.46L342.5 160 298 231.08a128 128 0 00-84 0l-23.32-37.2a4 4 0 00-3.39-1.88H51.14a4 4 0 00-3.36 6.16l82.7 128.73a128 128 0 10251 0L483.62 168a48.22 48.22 0 002.55-47.44zm-226 295.31a64 64 0 1159.69-59.69 64.08 64.08 0 01-59.68 59.69z"/></svg></div><h1 class="h-display">Palier 3 atteint</h1><p class="body">Tu as cumulé 150 points. Ton palier est à toi pour toujours.</p><div class="tiers anim-fade" role="img" aria-label="Palier 3 sur 4"><span class="n done">1</span><span class="l done"></span><span class="n done">2</span><span class="l done"></span><span class="n done cur">3</span><span class="l"></span><span class="n">4</span></div><button class="cta" data-tap>Voir mon focus</button></div></div></div></body></html>
